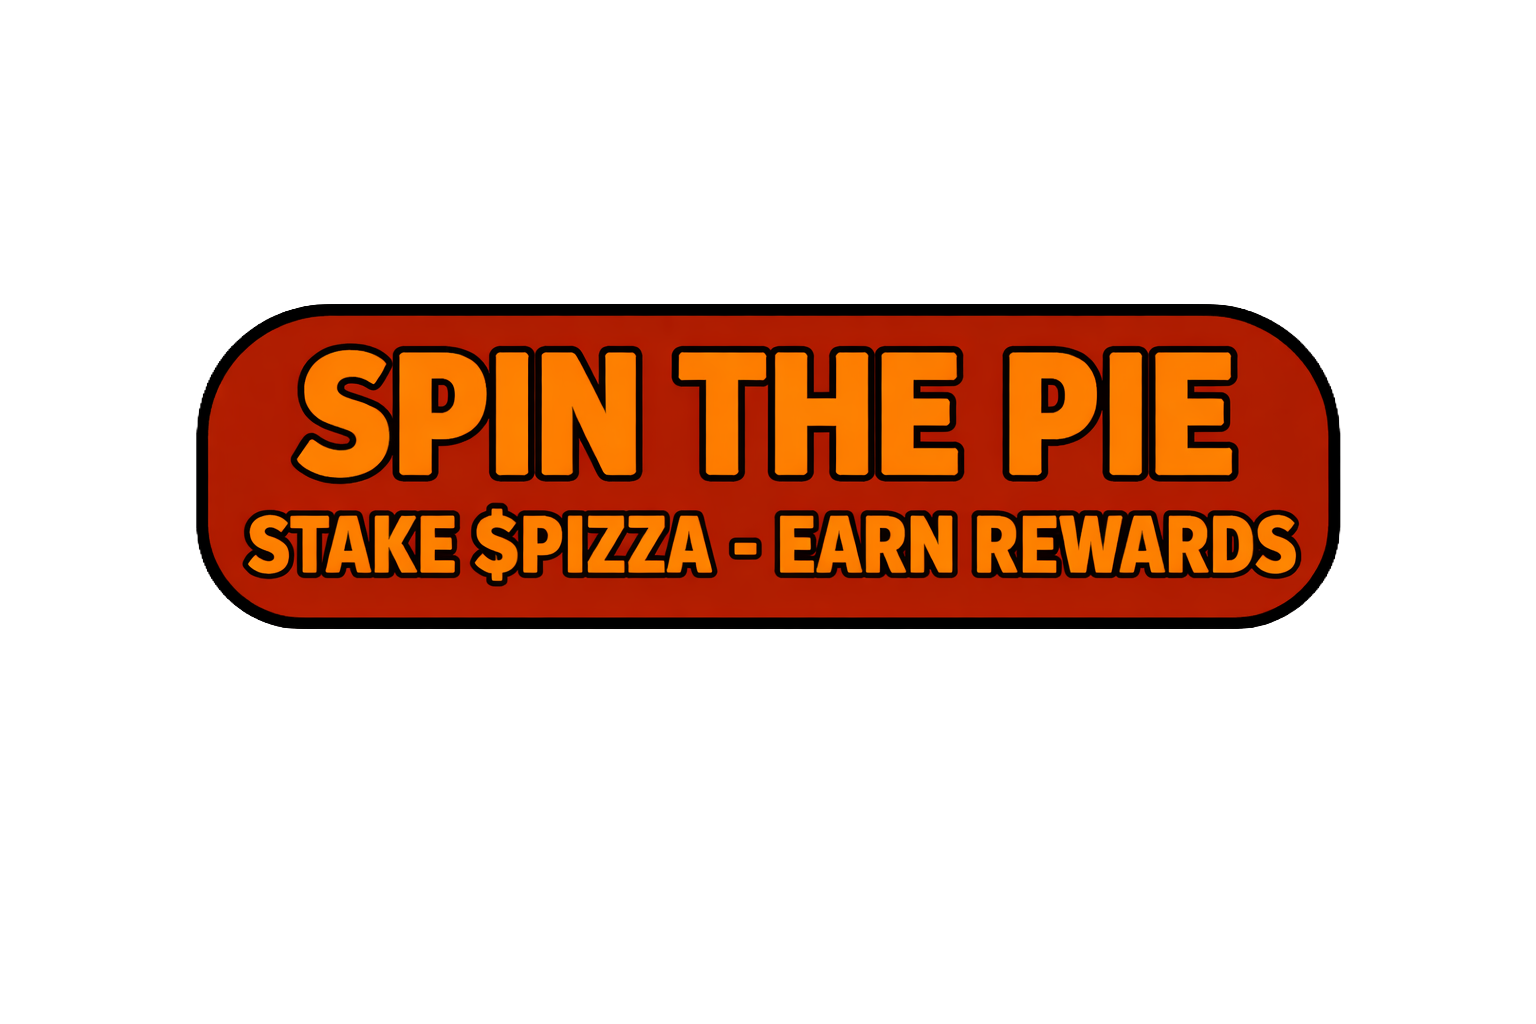
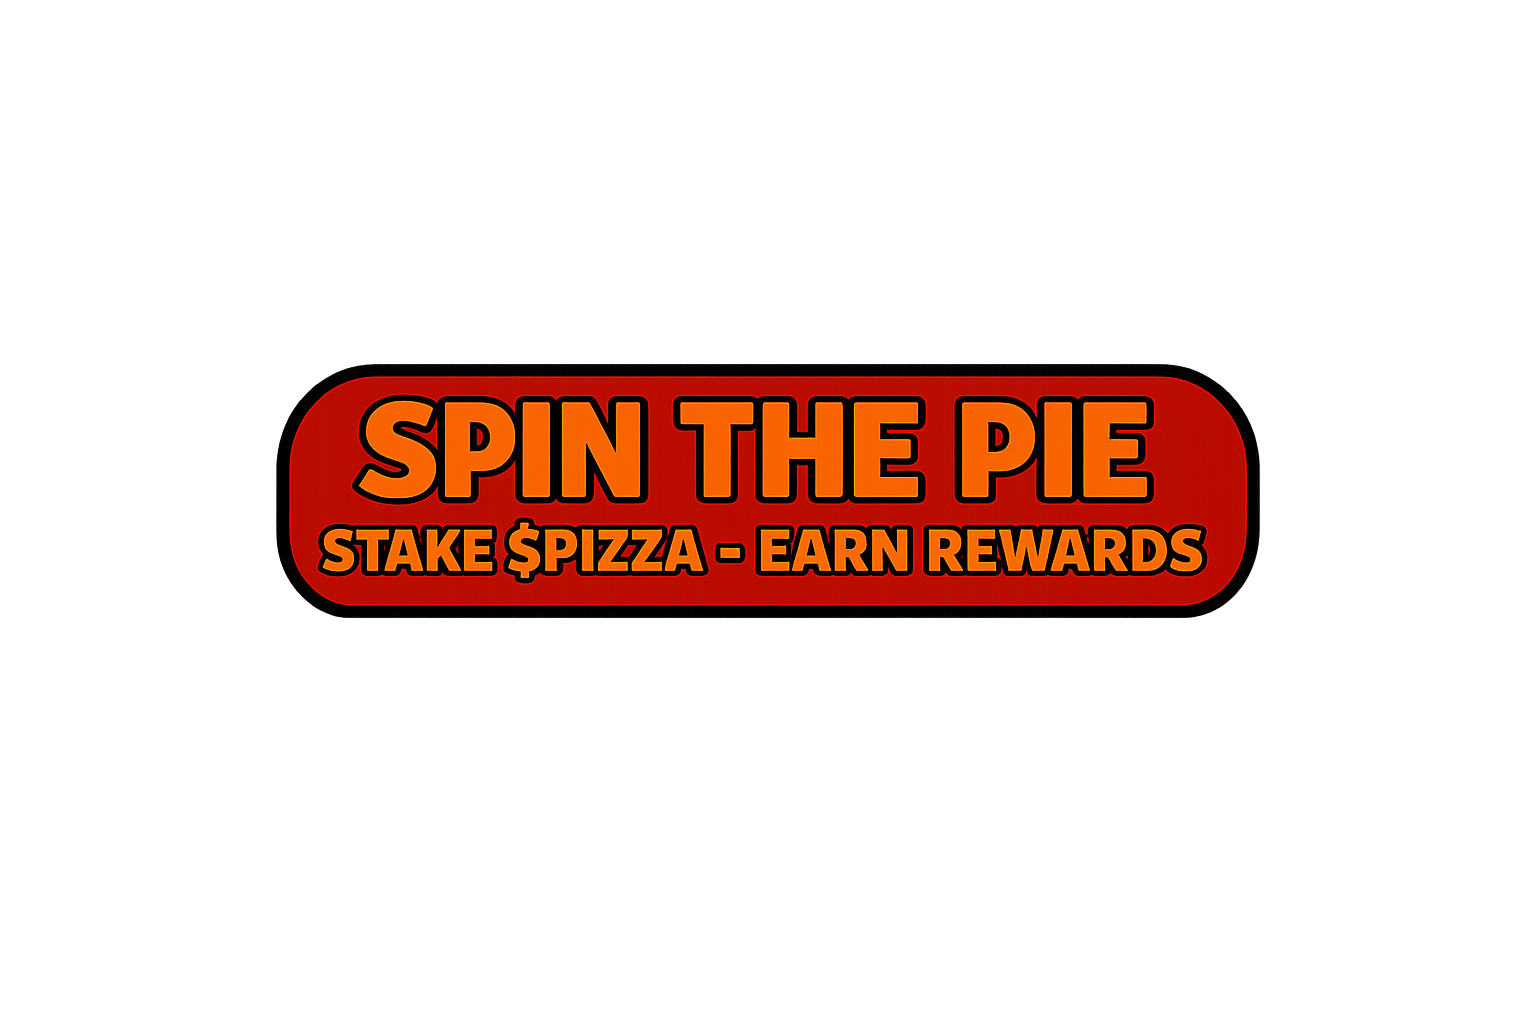
Update Spin the Pie title card with cropped image
- Updated image with no background/padding
- Adjusted sizing to match other cards

🤖 Generated with [Claude Code](https://claude.com/claude-code)

Changed region(s): [[0.125, 0.2812, 0.875, 0.625]]

diff --git a/app/components/StakingPage.tsx b/app/components/StakingPage.tsx
@@ -229,13 +229,14 @@ export default function StakingPage({
         >
           <div className="space-y-3">
             {/* Header */}
-            <div className="flex justify-center">
+            <div className="flex justify-center overflow-hidden" style={{ margin: '-20px -10px -30px -10px' }}>
               <Image
                 src="/images/Spin-the-Pie-Title-Card.png"
                 alt="Spin the Pie"
-                width={400}
-                height={120}
-                className="w-full max-w-[400px] h-auto"
+                width={500}
+                height={150}
+                className="w-full h-auto scale-125"
+                style={{ objectFit: 'contain' }}
               />
             </div>
 
